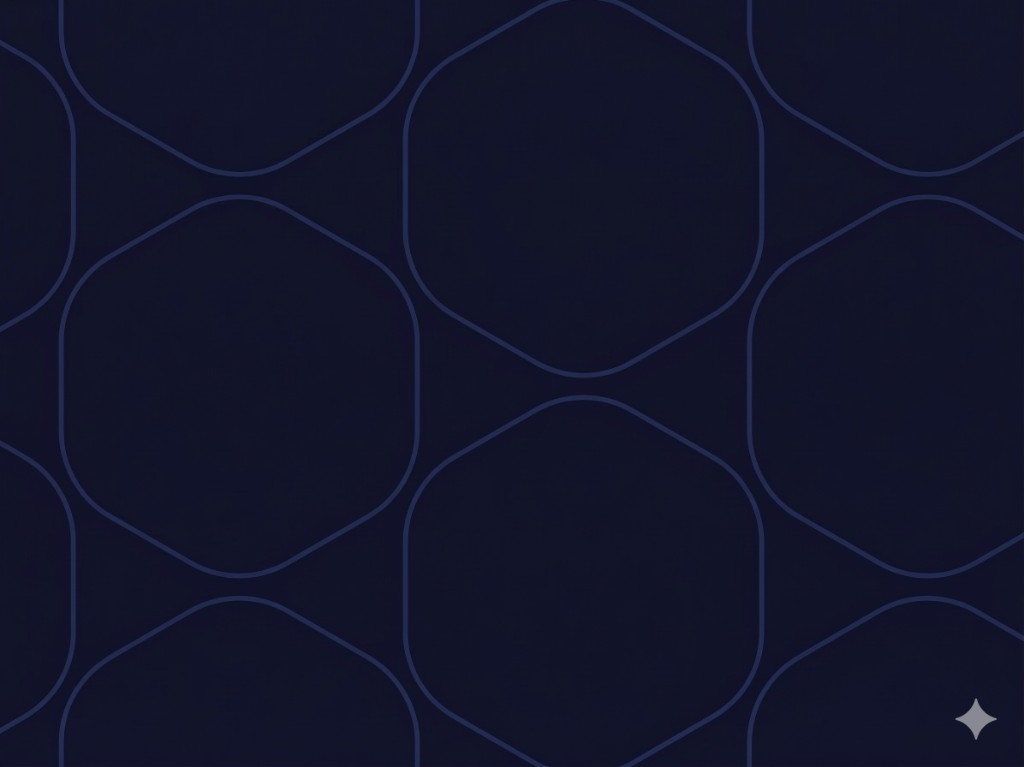
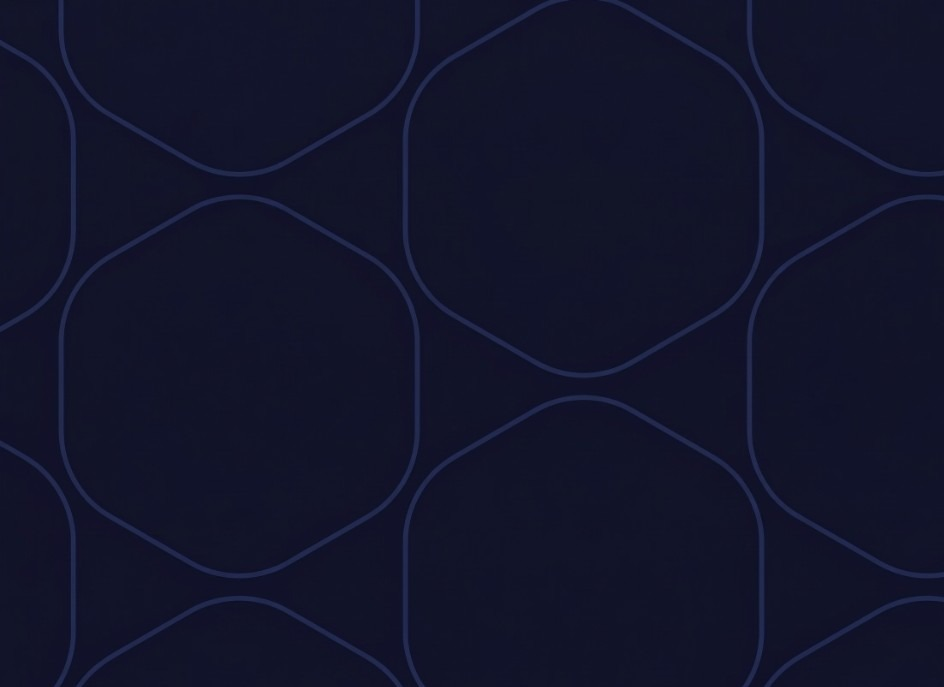
Doladit SEO popisky, loga, kompetence a oříznout hvězdu z baneru.
Sjednotit mezerování klientských log, zúžit kompetence na O nás a odstranit sparkle z modrého podkladu.

diff --git a/src/styles/global.css b/src/styles/global.css
@@ -208,6 +208,7 @@
 .marquee-track {
   animation: marquee 40s linear infinite;
   will-change: transform;
+  gap: 3rem;
 }
 
 .marquee-track:hover {
@@ -219,36 +220,46 @@
   flex-shrink: 0;
   align-items: center;
   justify-content: center;
-  width: 10.5rem;
+  width: auto;
   height: 3.25rem;
-  padding: 0 1.25rem;
+  padding: 0;
 }
 
 .client-logo-img {
   display: block;
-  max-width: 100%;
+  max-width: 9rem;
   max-height: 100%;
   width: auto;
   height: auto;
   object-fit: contain;
   object-position: center;
-  transform: scale(var(--logo-scale, 1));
-  transform-origin: center;
 }
 
 @media (min-width: 640px) {
+  .marquee-track {
+    gap: 3.5rem;
+  }
+
   .client-logo-slot {
-    width: 11.5rem;
     height: 3.5rem;
-    padding: 0 1.5rem;
+  }
+
+  .client-logo-img {
+    max-width: 10rem;
   }
 }
 
 @media (min-width: 1024px) {
+  .marquee-track {
+    gap: 4rem;
+  }
+
   .client-logo-slot {
-    width: 12.5rem;
     height: 3.75rem;
-    padding: 0 1.75rem;
+  }
+
+  .client-logo-img {
+    max-width: 11rem;
   }
 }
 
